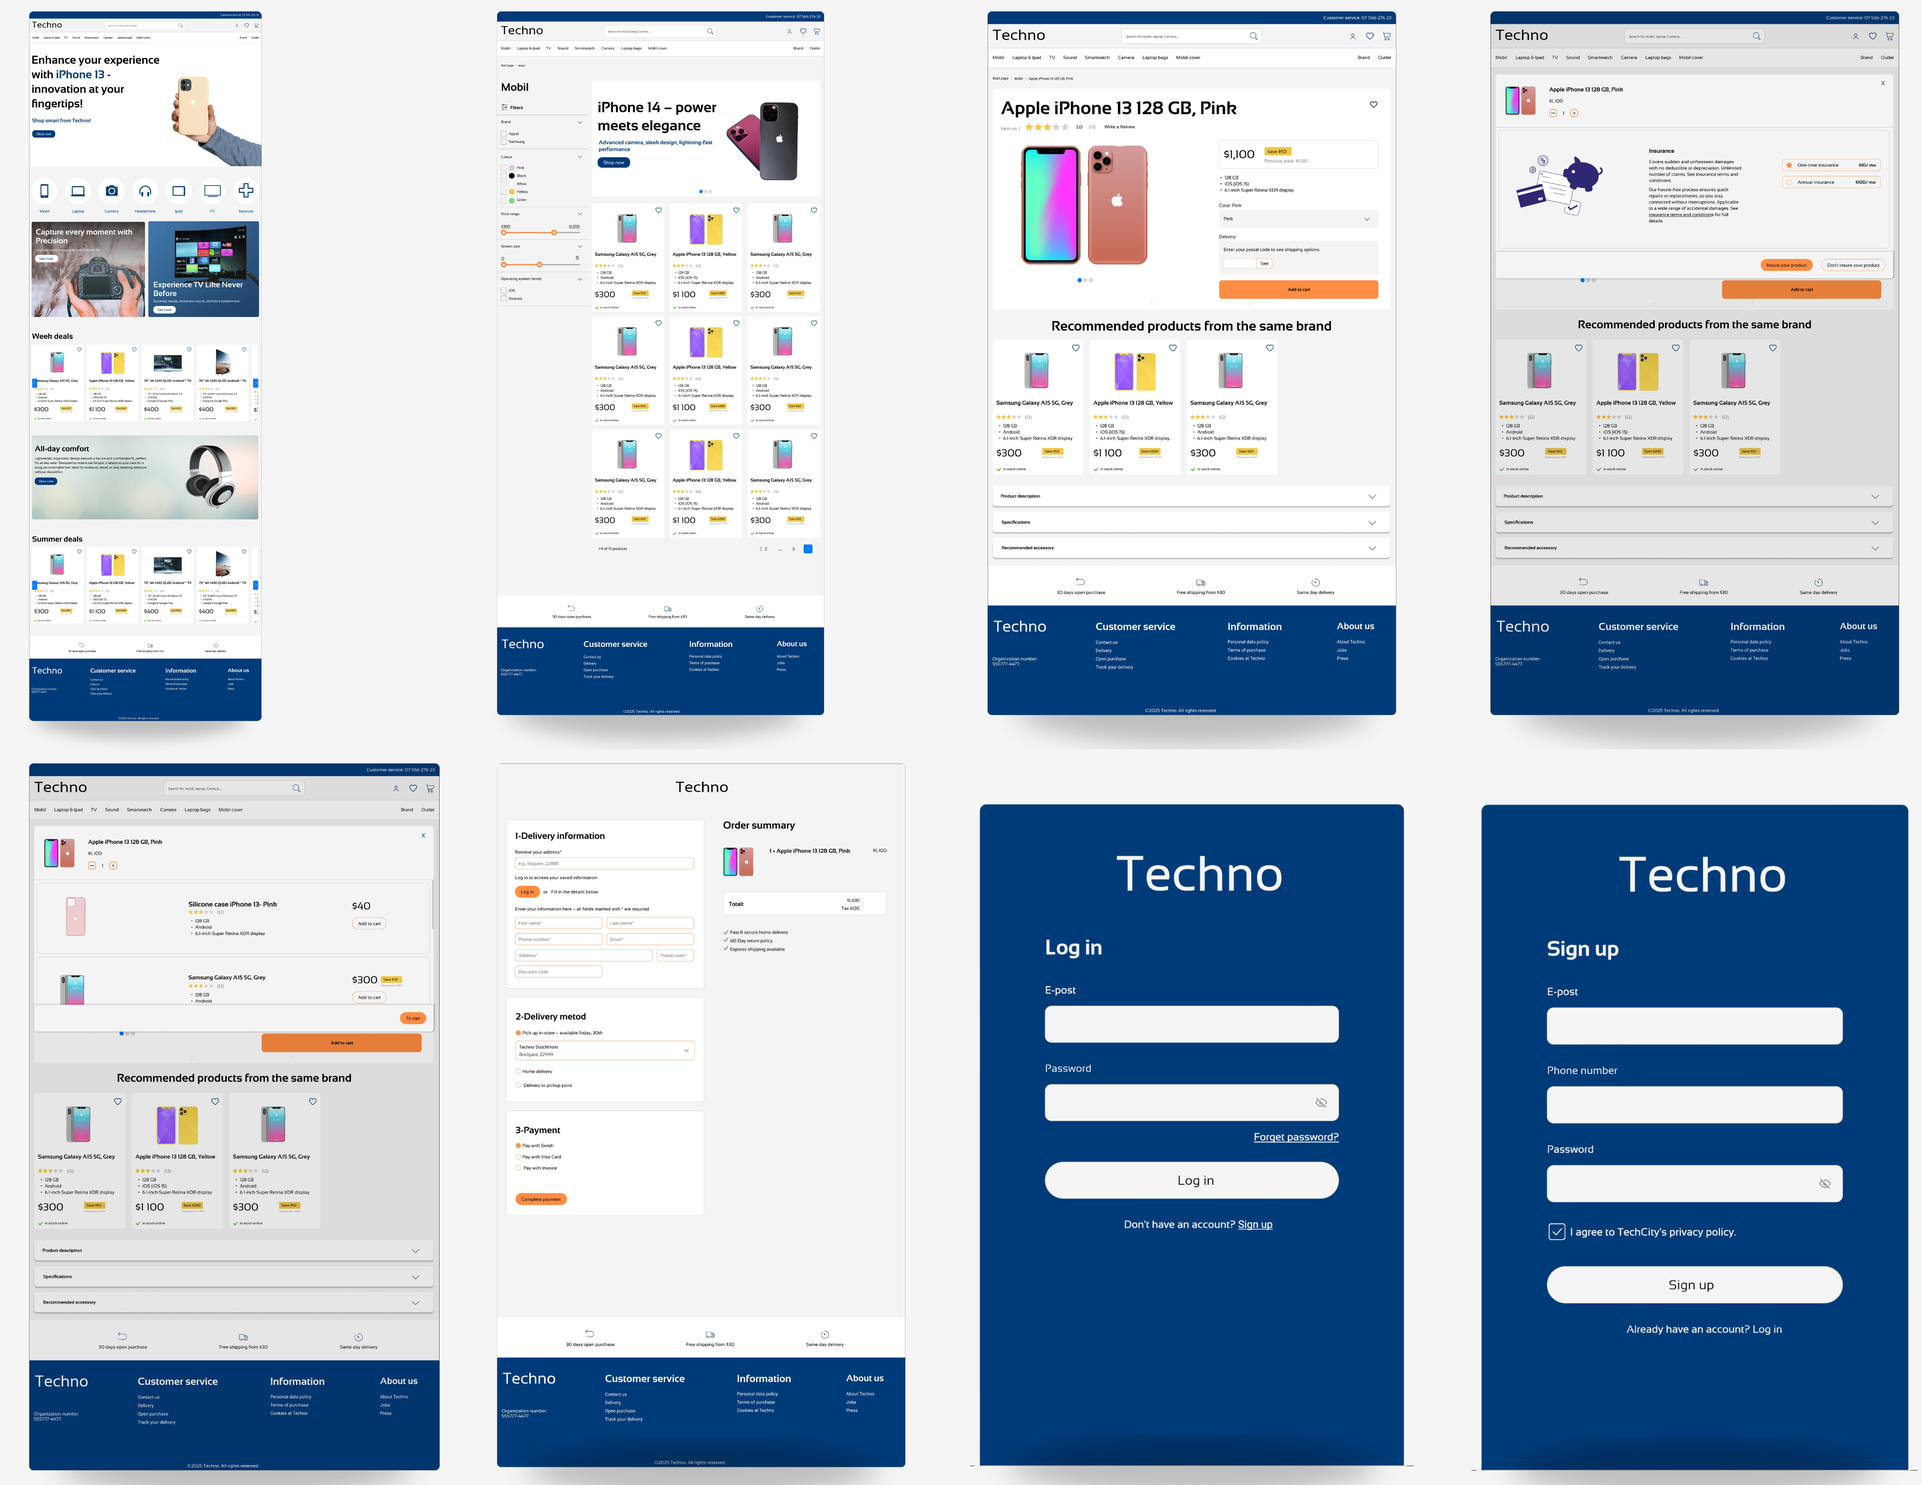
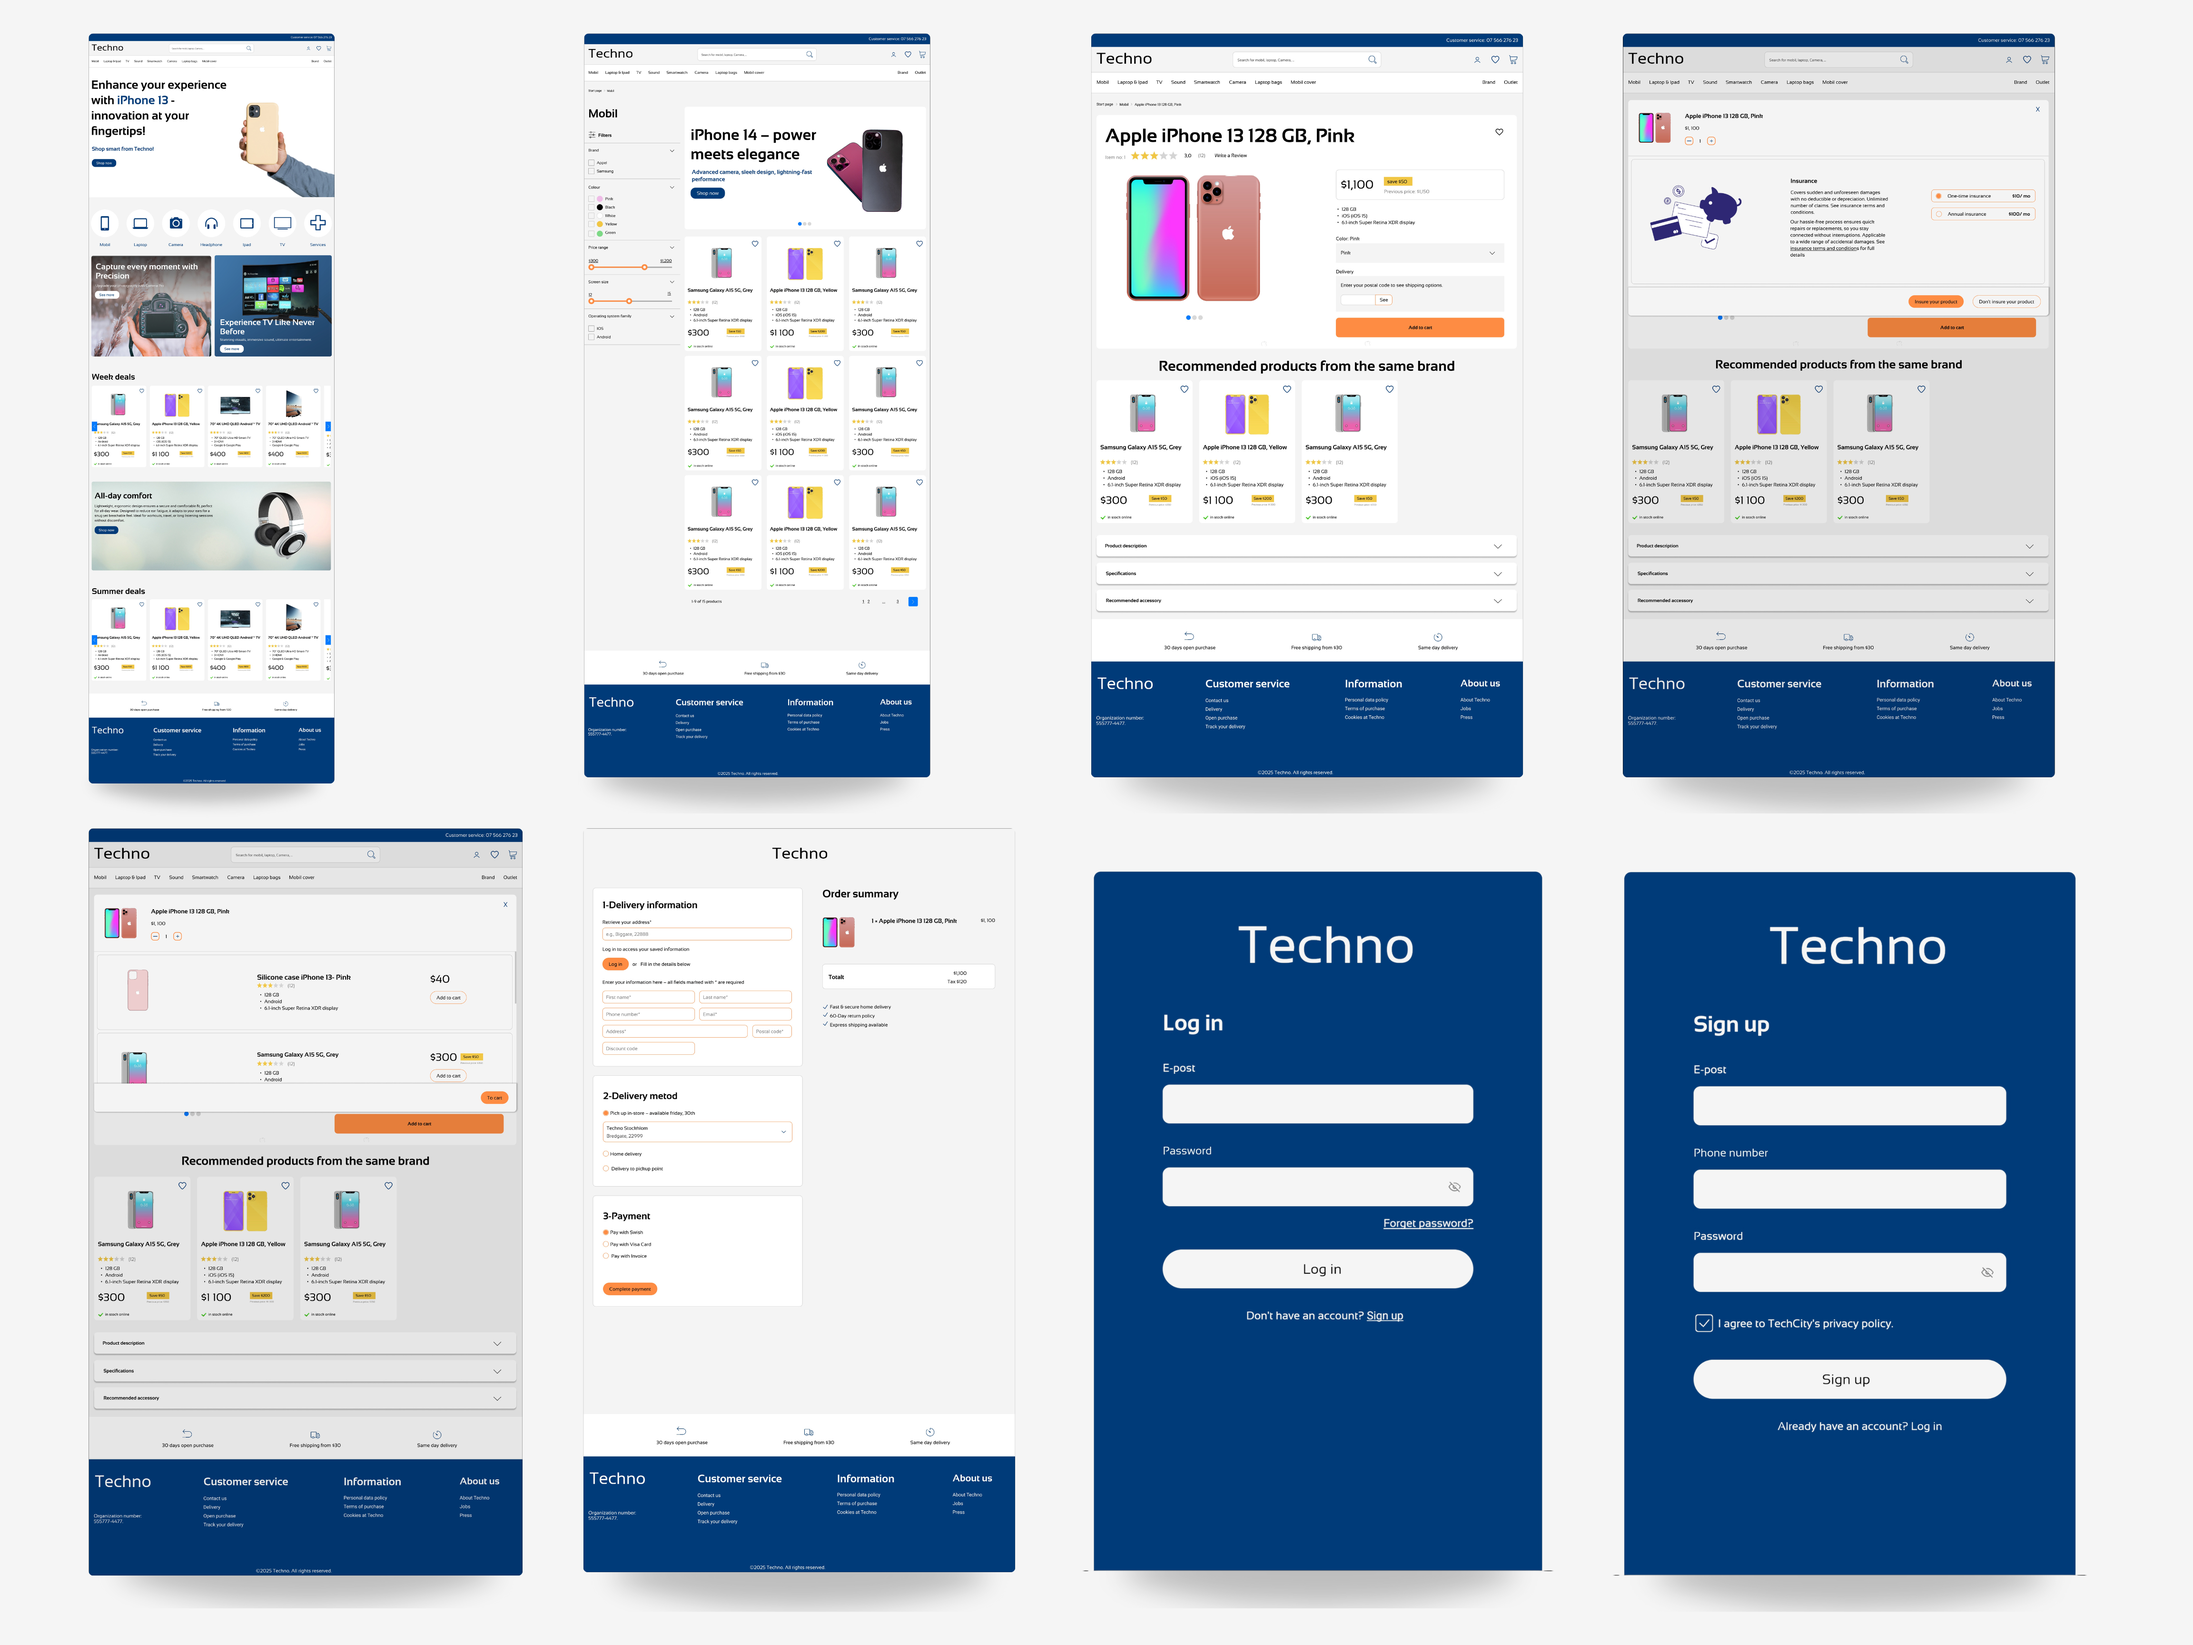
update

diff --git a/src/app/techno/info.jsx b/src/app/techno/info.jsx
@@ -3,26 +3,23 @@ import Image from "next/image";
 
 export default function Info() {
   return (<>
-     <section className="bg-[#F5F5F5] pb-20 px-6  rounded-[20px] ">
-
-  <div className="flex flex-col items-center justify-center text-center py-20 max-w-2xl mx-auto">
+     <section className="bg-[#F5F5F5]  pb-10  mx-6 rounded-[20px]">
+     <div className="flex justify-center ">
+            <img
+              src="/photos/technostartpage.jpg"
+              
+              alt="techno start page"
+              className="shadow-lg rounded-[20px] w-[100%]"
+            />
+          </div>
+  <div className=" flex flex-col items-center justify-center text-center py-20 px-6 max-w-2xl mx-auto">
     <h3 className="text-[#121212]">With focus on the user</h3>
-    <p className="mt-5 text-[#121212]">
+    <p className="mt-5 text-[#121212] ">
         Techno is designed with a user-first approach, ensuring an intuitive and seamless interaction with the interface. Our platform caters to students, developers, and small to medium-sized businesses, offering a modern and elegant digital experience. The new website is built to combine sleek design with a hassle-free shopping process, making every step smooth, efficient, and enjoyable.
     </p>
 </div>
-  <div className=" flex justify-center">
-    <Image
-      src="/photos/protoyp.png"
-      width={1200} 
-      height={500} 
-      alt="Prototype"
-      
-    />
-  </div>
 
-
-      <div className="max-w-8xl py-20 mx-auto grid grid-cols-1 lg:grid-cols-2 gap-10 items-center">
+      <div className="max-w-8xl py-20 mx-auto grid grid-cols-1 lg:grid-cols-2 gap-10 items-center px-6">
         {/* Left Side: Images Grid */}
        
 
@@ -44,7 +41,7 @@ export default function Info() {
             />
           </div>
       </div>
-      <div className="max-w-8xl py-20 mx-auto grid grid-cols-1 lg:grid-cols-2 gap-10 items-center">
+      <div className="max-w-8xl py-20 mx-auto grid grid-cols-1 lg:grid-cols-2 gap-10 items-center px-6">
         {/* Left Side: Images Grid */}
         <div className="flex justify-center ">
             <Image
@@ -65,7 +62,7 @@ export default function Info() {
         </div>
        
       </div>
-      <div className="max-w-8xl py-20 mx-auto grid grid-cols-1 lg:grid-cols-2 gap-10 items-center">
+      <div className="max-w-8xl py-20 mx-auto grid grid-cols-1 lg:grid-cols-2 gap-10 items-center px-6">
         {/* Left Side: Images Grid */}
        
 
@@ -86,6 +83,18 @@ export default function Info() {
             />
           </div>
       </div>
+      <h2 className="text-[#121212] justify-center text-center pb-5">Prodact final design</h2>
+     
+ 
+     <div className=" flex justify-center">
+       
+       <Image
+         src="/photos/protoyp.png"
+         width={1200} 
+         height={500} 
+         alt="Prototype"
+       />
+     </div>
     </section>
     </>
   );

diff --git a/src/app/techno/page.jsx b/src/app/techno/page.jsx
@@ -1,24 +1,25 @@
-import Image from "next/image";
+
 import { MdArrowOutward } from "react-icons/md";
 import Info from "./info";
 export default function Techno() {
     return (<>
-     <div>
-    
-        <Image
-        src="/photos/techno.png" 
+     
+   <div className="flex justify-center items-center px-6 ">
+    <img
+        src="/photos/project 2.png" 
         alt="Techno Website" 
-        width={1500}
-        height={800}
-        objectFit="cover" />
-     </div>
+       
+        className="w-screen h-auto object-cover rounded-[20px]"
+    />
+</div>
+
 
     <div className=" py-40 px-6 ">
       <div className="grid md:grid-cols-[60%_30%] grid-cols-1 gap-10 max-w-8xl mx-auto">
         {/* Vänster kolumn */}
         <div>
         <h1>Techno</h1>
-          <p className="mt-6 w-[80%] ">
+          <p className="mt-6 lg:w-[80%] md:w-[100%]">
           Techno is a cutting-edge e-commerce platform specializing in tech products across Sweden. Techno goal is to provide a seamless and intuitive shopping experience, making it easier than ever for customers to browse and purchase the latest technology.
 
           With a strong focus on user experience (UX) and modern design, Techno ensures that every interaction—from product discovery to checkout—is smooth, fast, and hassle-free.
